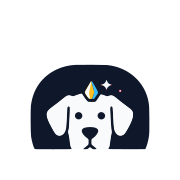
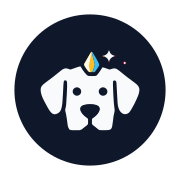
chore(brand): atualiza signet com fundo circular e usa SVG no auth

diff --git a/src/frontend/components/templates/auth-split-layout.tsx b/src/frontend/components/templates/auth-split-layout.tsx
@@ -15,12 +15,13 @@ export function AuthSplitLayout({ children }: AuthSplitLayoutProps) {
       <div className={`relative overflow-hidden lg:hidden ${mobileBackdrop}`}>
         <div className="relative flex items-center justify-center px-6 py-8">
           <Image
-            src="/brand/logo/signet.png"
+            src="/brand/logo/signet.svg"
             alt="Cry Console"
             width={96}
             height={96}
             className="size-20"
             priority
+            unoptimized
           />
         </div>
       </div>

diff --git a/src/frontend/components/atoms/brand-logo.tsx b/src/frontend/components/atoms/brand-logo.tsx
@@ -33,7 +33,7 @@ export function BrandLogo({
           width={48}
           height={48}
           className={cn(
-            "max-w-none object-contain object-center scale-[1.18]",
+            "object-contain object-center",
             signetClass,
           )}
           priority
